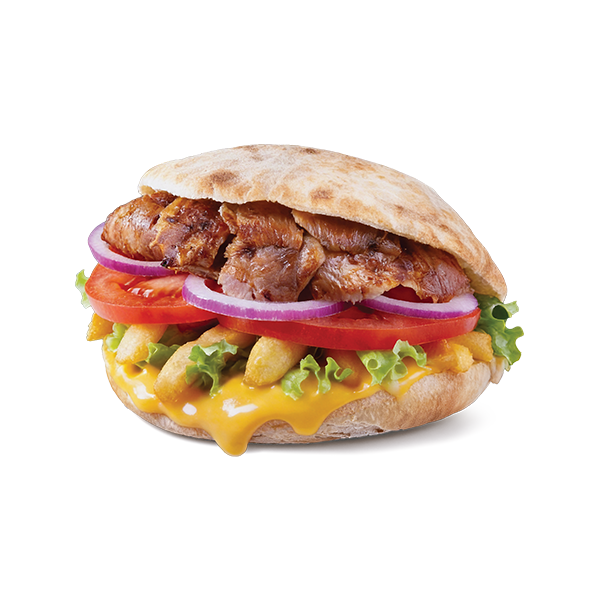
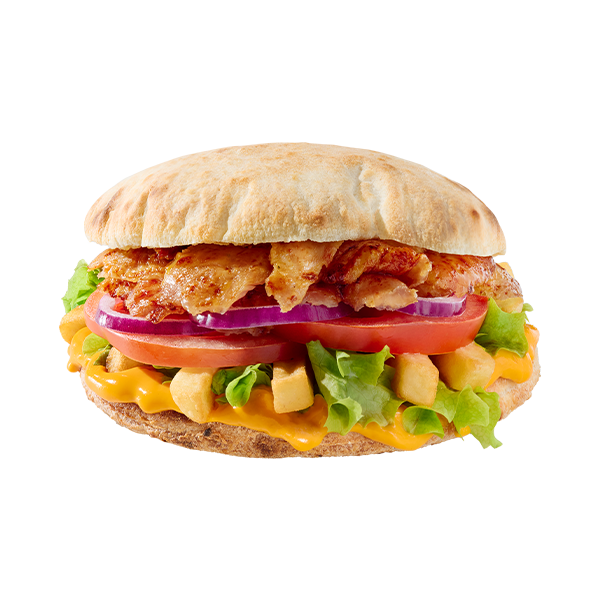
Menu product cards: white image background, keep divider line
Image area now uses --color-surface (white in light mode) instead of grey;
description keeps only the top border as separation. Also updated
RoyalCheesy and joburi images.

diff --git a/css/meniu.css b/css/meniu.css
@@ -256,7 +256,7 @@
 
 .product-card__img-wrap {
   aspect-ratio: 1;
-  background: var(--color-surface-2);
+  background: var(--color-surface);
   overflow: hidden;
   position: relative;
 }